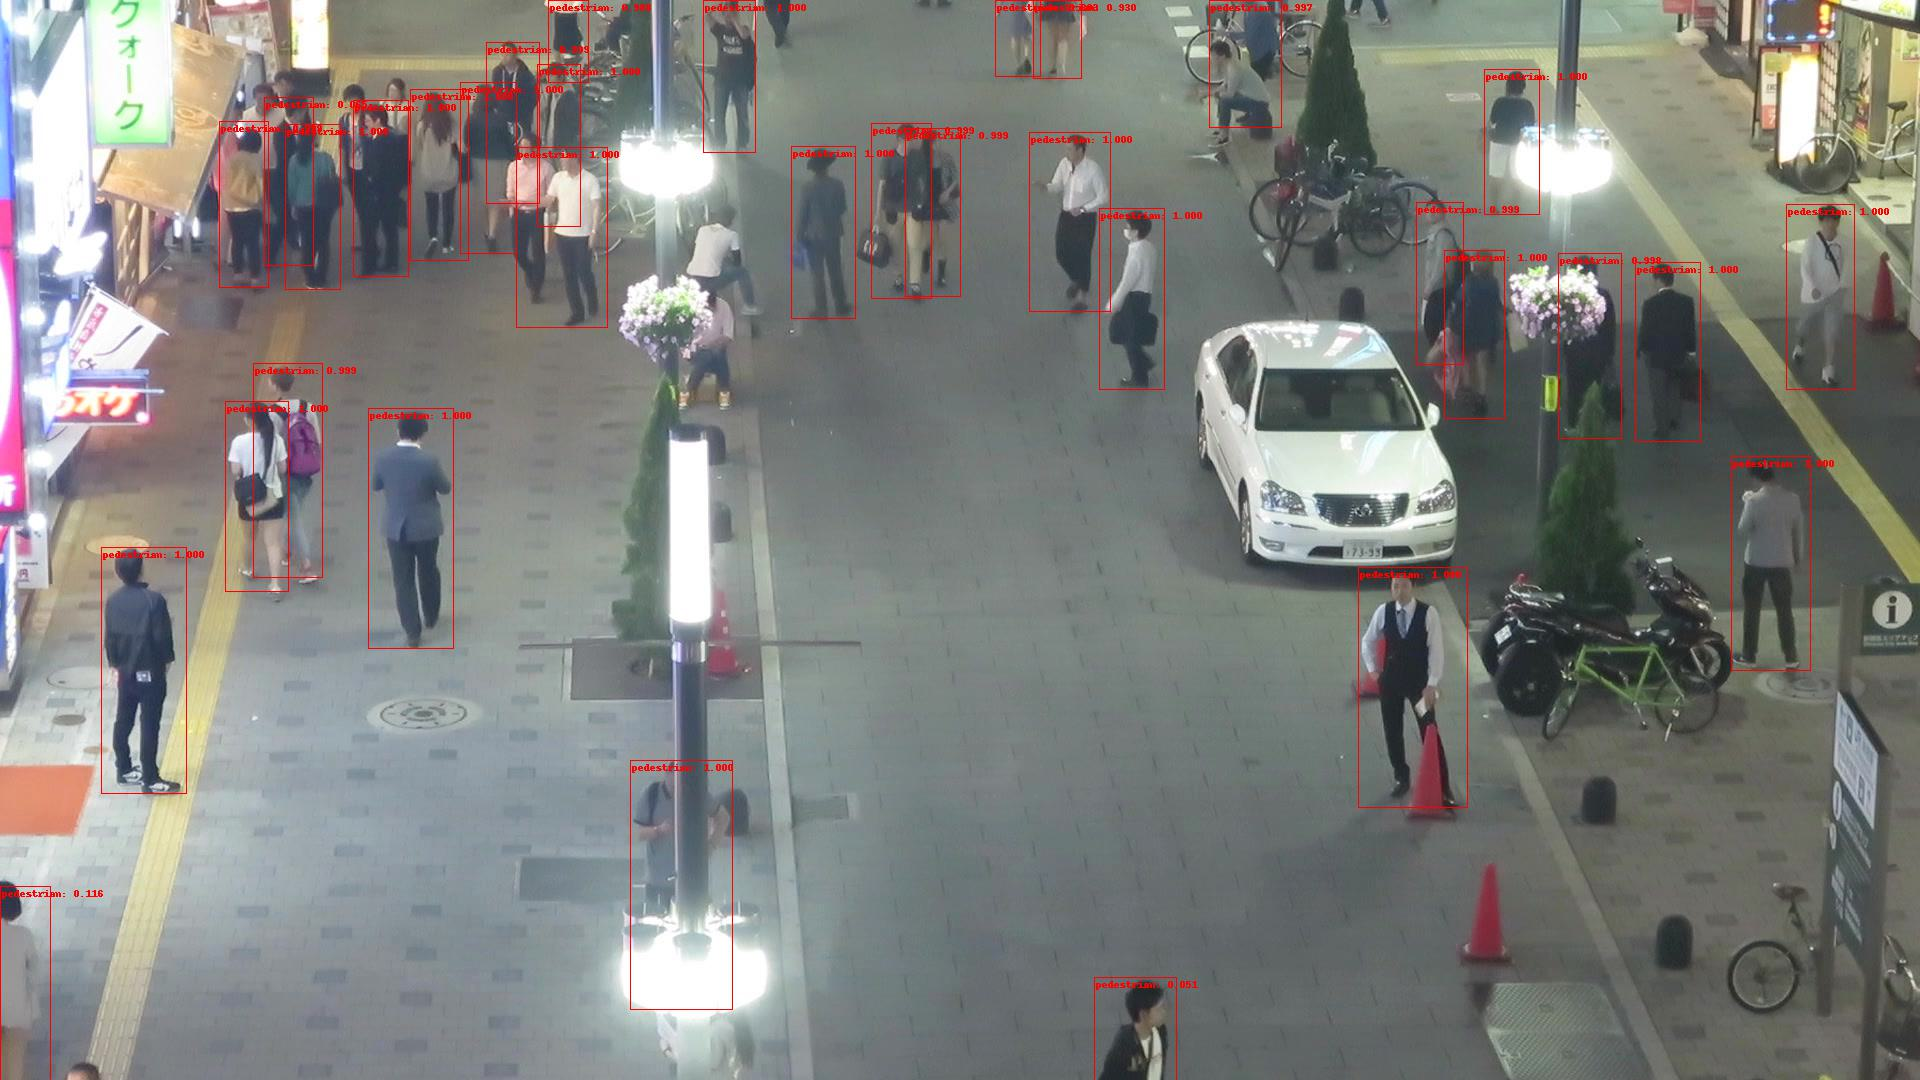
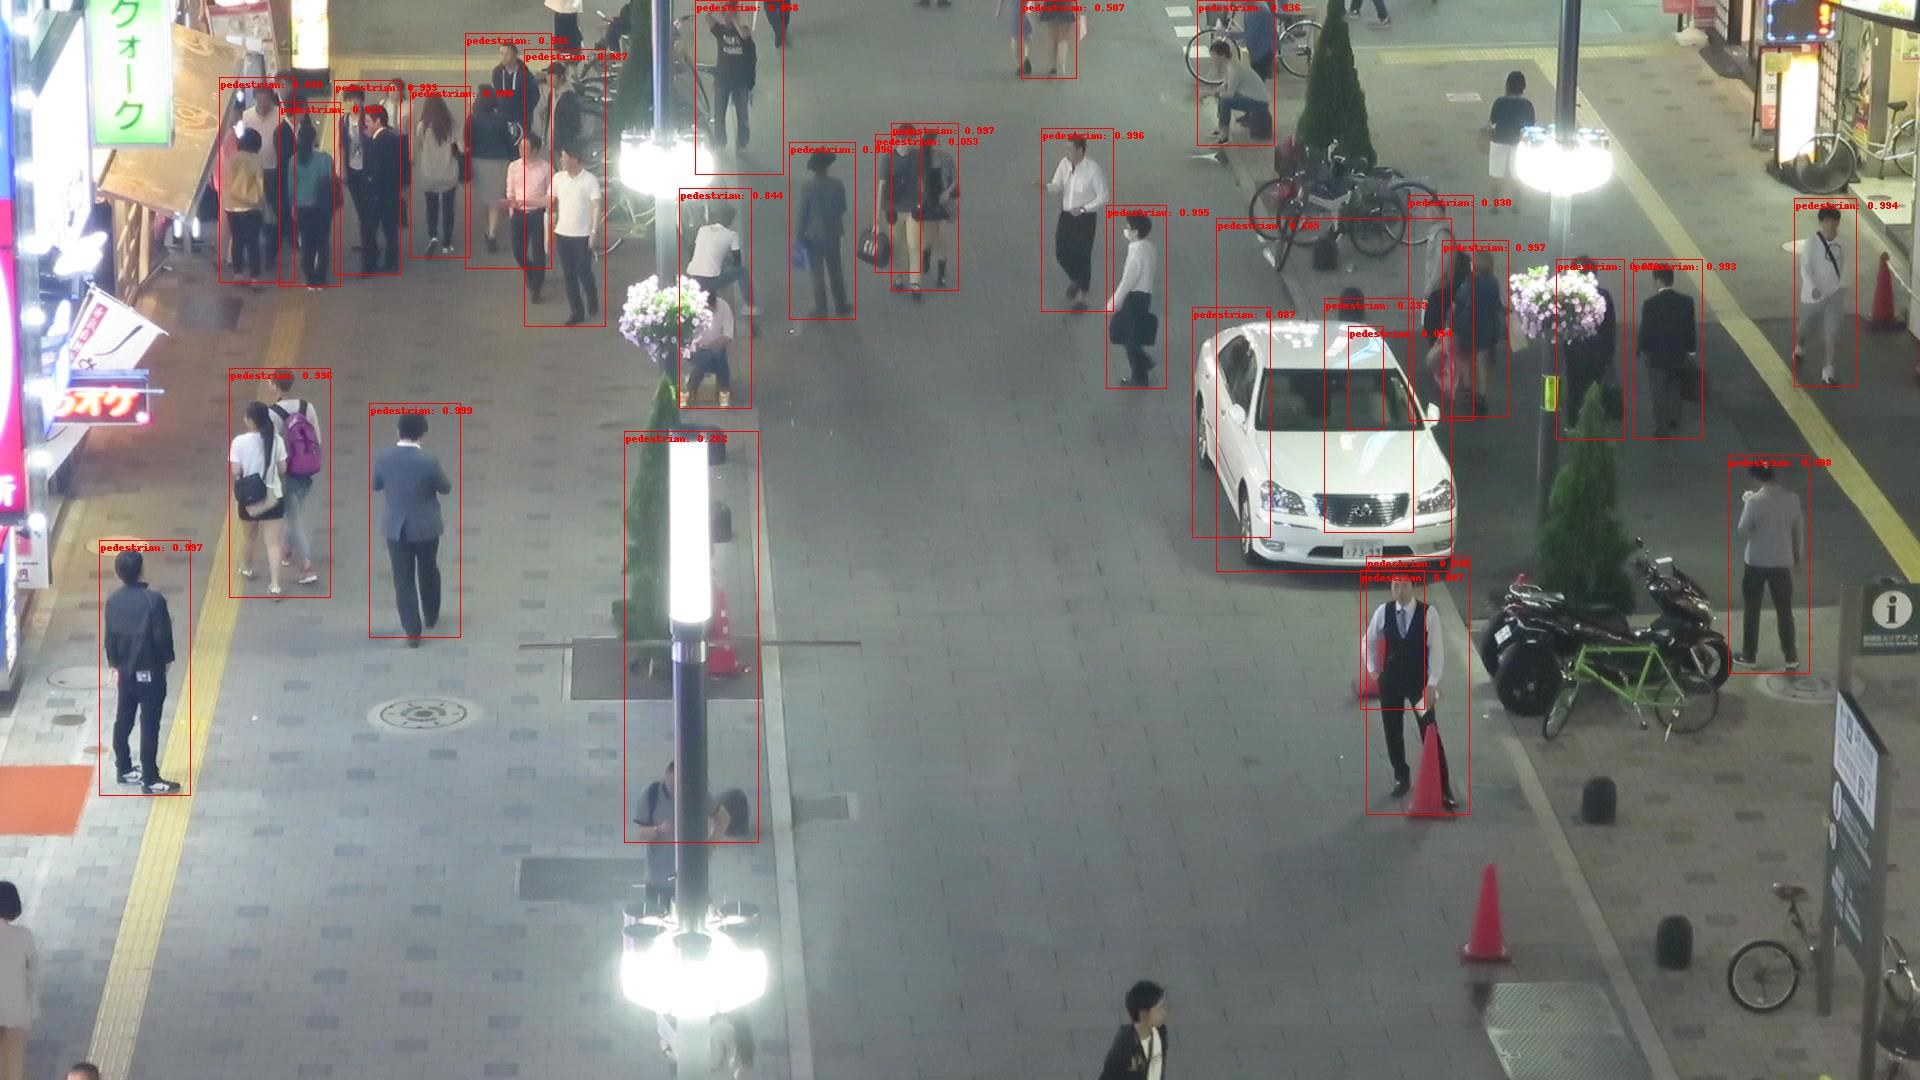
New best nms_threshold reached, little leap in performance

diff --git a/dlvsp_challenge_material/src/tracker/tracker.py b/dlvsp_challenge_material/src/tracker/tracker.py
@@ -11,7 +11,7 @@ import numpy as np
 DISASSOCIATE = 1e9
 WARM_UP = 4
 PATIENCE_RMV = 10
-PATIENCE_INIT = 1
+PATIENCE_INIT = 0
 
 def _process_nans(matrix):
     for i in range(len(matrix)):
@@ -37,12 +37,15 @@ class KalmanFilter(object):
     def __init__(self):
         self.kf = cv2.KalmanFilter(4,2)
         self.kf.transitionMatrix = np.array([[1, 0, 1, 0],
-                                            [0, 1, 0, 1],
-                                            [0, 0, 1, 0],
-                                            [0, 0, 0, 1]], dtype=np.float32)
+                                             [0, 1, 0, 1],
+                                             [0, 0, 1, 0],
+                                             [0, 0, 0, 1]], dtype=np.float32)
 
         self.kf.measurementMatrix = np.array([[1, 0, 0, 0],
                                               [0, 1, 0, 0]], dtype=np.float32)
+    
+        #self.kf.processNoiseCov = np.eye(4, dtype=np.float32) * 0.01
+        #self.kf.measurementNoiseCov = np.eye(2, dtype=np.float32) * 0.1
         
     def predict(self, coord1, coord2):
         '''
@@ -158,22 +161,26 @@ class Tracker:
                 
                 if self.im_index <= PATIENCE_INIT: # At the beginning we consider all detections tracks
                     self.tracks[t].is_active = True
+                    #"""
                     self.tracks[t].kf_estimation = self.tracks[t].kf.detect(boxes[d][0],
                                                                          boxes[d][1],
                                                                          boxes[d][2],
                                                                          boxes[d][3])
+                    #"""
+        
                 elif self.im_index > PATIENCE_INIT and self.tracks[t].frames_consecutive_track > PATIENCE_INIT:
                     self.tracks[t].is_active = True
                     # only update the kalman filter estimations if and only if the 
                     # the track is active and it has passed the PATIENCE INIT value
+                    #"""
                     self.tracks[t].kf_estimation = self.tracks[t].kf.detect(boxes[d][0],
                                                                          boxes[d][1],
                                                                          boxes[d][2],
                                                                          boxes[d][3])
-                                 
+                    #"""
             # create the cost matrix with all np.inf except assign "0" for the 
             # indexes that the hungarian algo associated
-            distance = np.full_like(distance, np.inf)
+            distance = np.full_like(distance, DISASSOCIATE)
             for as_idx in indexes:
                 distance[as_idx] = 0
             
@@ -185,20 +192,23 @@ class Tracker:
                 distance_t = distance
             for t,dist in zip(self.tracks, distance_t):
                 # Numpy transpose is quite buggy... 
-                if np.all(dist>DISASSOCIATE): # no detection associated to a track
+                if np.all(dist>DISASSOCIATE-10): # no detection associated to a track
                     if t.frames_since_recent_track == PATIENCE_RMV: # if patience reached remove track
-                        print(f"track {t.id} removed!")
+                        #print(f"track {t.id} removed!")
                         remove_tracks_id.append(t.id)
                     else:
                         t.frames_since_recent_track += 1
                         t.frames_consecutive_track == 0
                         # we update the kf_estimation just in case the tracker
                         # recovers sight of the lost track in the following detections
+                        #"""
                         t.kf_estimation = t.kf.detect(t.kf_estimation[0],
                                                        t.kf_estimation[1],
                                                        t.kf_estimation[2],
                                                        t.kf_estimation[3])
-                        print(f"track {t.id} patience = {t.frames_since_recent_track}")
+                        #"""
+                        #print(f"track {t.id} patience = {t.frames_since_recent_track}")
+                        
             # removing tracks in the remove_tracks_id array
             self.tracks = [t for t in self.tracks\
                     if t.id not in remove_tracks_id]
@@ -211,10 +221,10 @@ class Tracker:
             else:
                 distance_t = distance.T
             for d,dist in enumerate(distance_t):
-                if np.all(dist>DISASSOCIATE): # no track associated w/ detection, so add new track as the detection
+                if np.all(dist>DISASSOCIATE-10): # no track associated w/ detection, so add new track as the detection
                     new_boxes.append(boxes[d])
                     new_scores.append(scores[d])
-                    print(f"New track added!")
+                    #print(f"New track added!")
             self.add(new_boxes, new_scores)
             
         else:
@@ -259,12 +269,13 @@ class Tracker:
         # but as frames are processed, we give more importance to them.
         l = np.zeros(distance_kalman.shape[0])
         
+        #"""
         for i,t in enumerate(self.tracks):
             if t.n_frames_track >= int(1.5*WARM_UP):
                 l[i] = 0.9
             elif t.n_frames_track >= WARM_UP:
                 l[i] = 0.5
-            
+        #""" 
         
         # pondered result depending on l value
         miou_pondered = (1-l[:, np.newaxis])*distance_tracks + l[:, np.newaxis]*distance_kalman

diff --git a/dlvsp_challenge_material/src/tracker/kalman_filter.py b/dlvsp_challenge_material/src/tracker/kalman_filter.py
@@ -1,0 +1,64 @@
+import numpy as np
+
+class KalmanFilter(object):
+    def __init__(self, dt, u_x,u_y, std_acc, x_std_meas, y_std_meas):
+        """
+        :param dt: sampling time (time for 1 cycle)
+        :param u_x: acceleration in x-direction
+        :param u_y: acceleration in y-direction
+        :param std_acc: process noise magnitude
+        :param x_std_meas: standard deviation of the measurement in x-direction
+        :param y_std_meas: standard deviation of the measurement in y-direction
+        """
+        # Define sampling time
+        self.dt = dt
+        # Define the  control input variables
+        self.u = np.matrix([[u_x],[u_y]])
+        # Intial State
+        self.x = np.matrix([[0], [0], [0], [0]])
+        # Define the State Transition Matrix A
+        self.A = np.matrix([[1, 0, self.dt, 0],
+                            [0, 1, 0, self.dt],
+                            [0, 0, 1, 0],
+                            [0, 0, 0, 1]])
+        # Define the Control Input Matrix B
+        self.B = np.matrix([[(self.dt**2)/2, 0],
+                            [0, (self.dt**2)/2],
+                            [self.dt,0],
+                            [0,self.dt]])
+        # Define Measurement Mapping Matrix
+        self.H = np.matrix([[1, 0, 0, 0],
+                            [0, 1, 0, 0]])
+        #Initial Process Noise Covariance
+        self.Q = np.matrix([[(self.dt**4)/4, 0, (self.dt**3)/2, 0],
+                            [0, (self.dt**4)/4, 0, (self.dt**3)/2],
+                            [(self.dt**3)/2, 0, self.dt**2, 0],
+                            [0, (self.dt**3)/2, 0, self.dt**2]]) * std_acc**2
+        #Initial Measurement Noise Covariance
+        self.R = np.matrix([[x_std_meas**2,0],
+                           [0, y_std_meas**2]])
+        #Initial Covariance Matrix
+        self.P = np.eye(self.A.shape[1])
+        
+    def predict(self):
+        # Refer to :Eq.(9) and Eq.(10)  in https://machinelearningspace.com/object-tracking-simple-implementation-of-kalman-filter-in-python/?preview_id=1364&preview_nonce=52f6f1262e&preview=true&_thumbnail_id=1795
+        # Update time state
+        #x_k =Ax_(k-1) + Bu_(k-1)     Eq.(9)
+        self.x = np.dot(self.A, self.x) + np.dot(self.B, self.u)
+        # Calculate error covariance
+        # P= A*P*A' + Q               Eq.(10)
+        self.P = np.dot(np.dot(self.A, self.P), self.A.T) + self.Q
+        return self.x[0:2]
+    
+    def update(self, z):
+        # Refer to :Eq.(11), Eq.(12) and Eq.(13)  in https://machinelearningspace.com/object-tracking-simple-implementation-of-kalman-filter-in-python/?preview_id=1364&preview_nonce=52f6f1262e&preview=true&_thumbnail_id=1795
+        # S = H*P*H'+R
+        S = np.dot(self.H, np.dot(self.P, self.H.T)) + self.R
+        # Calculate the Kalman Gain
+        # K = P * H'* inv(H*P*H'+R)
+        K = np.dot(np.dot(self.P, self.H.T), np.linalg.inv(S))  #Eq.(11)
+        self.x = np.round(self.x + np.dot(K, (z - np.dot(self.H, self.x))))   #Eq.(12)
+        I = np.eye(self.H.shape[1])
+        # Update error covariance matrix
+        self.P = (I - (K * self.H)) * self.P   #Eq.(13)
+        return self.x[0:2]

diff --git a/dlvsp_challenge_material/src/tracker/draw_results.py b/dlvsp_challenge_material/src/tracker/draw_results.py
@@ -13,7 +13,7 @@ from object_detector import FRCNN_FPN, ObjDetector
 image = read_image("../../data/MOT16/train/MOT16-04/img1/000001.jpg")
 
 # obj_detect_model_file = os.path.join("../../models/maskrcnn_model.pth")
-obj_detect_model_file = os.path.join("../../models/finetuned_faster_rcnn.model")
+obj_detect_model_file = os.path.join("../../models/finetuned_masked_rcnn.model")
 def get_transform(train):
     transforms = []
     if train:
@@ -29,14 +29,18 @@ if __name__ == "__main__":
     obj_detect_nms_thresh = 0.3
     
     
-    #model = ObjDetector(model_path=obj_detect_model_file).model.to(device)
+    model = ObjDetector(nms_thresh=0.5).model
+    obj_detect_state_dict = torch.load(obj_detect_model_file,map_location=lambda storage, loc: storage)
+    model.load_state_dict(obj_detect_state_dict)
+    model.to(device)
     
-    #"""
+    
+    """
     model = FRCNN_FPN(num_classes=2, nms_thresh=obj_detect_nms_thresh)
     obj_detect_state_dict = torch.load(obj_detect_model_file,map_location=lambda storage, loc: storage)
     model.load_state_dict(obj_detect_state_dict)
     model.to(device)
-    #"""
+    """
 
     model.eval()
     with torch.no_grad():
@@ -53,6 +57,6 @@ if __name__ == "__main__":
     pred_boxes = pred["boxes"].long()
     output_image = draw_bounding_boxes(image, pred_boxes, pred_labels, colors="red")
 
-    output_image = T.ToPILImage()(output_image).save("obj_detect_results/res_finetuned_faster_000699.jpg")
+    output_image = T.ToPILImage()(output_image).save("obj_detect_results/res_finetuned_masked_000699.jpg")
     
     

diff --git a/dlvsp_challenge_material/src/tracker/object_detector.py b/dlvsp_challenge_material/src/tracker/object_detector.py
@@ -43,15 +43,13 @@ class ObjDetector():
             
             # now get the number of input features for the mask classifier
             in_features_mask = self.model.roi_heads.mask_predictor.conv5_mask.in_channels
-            hidden_layer = 256
+            hidden_layer = self.model.roi_heads.mask_predictor.conv5_mask.out_channels
             # and replace the mask predictor with a new one
             self.model.roi_heads.mask_predictor = MaskRCNNPredictor(
                 in_features_mask,
                 hidden_layer,
                 num_classes
             )
-            
-
         
     def detect(self, img):
         device = list(self.parameters())[0].device
